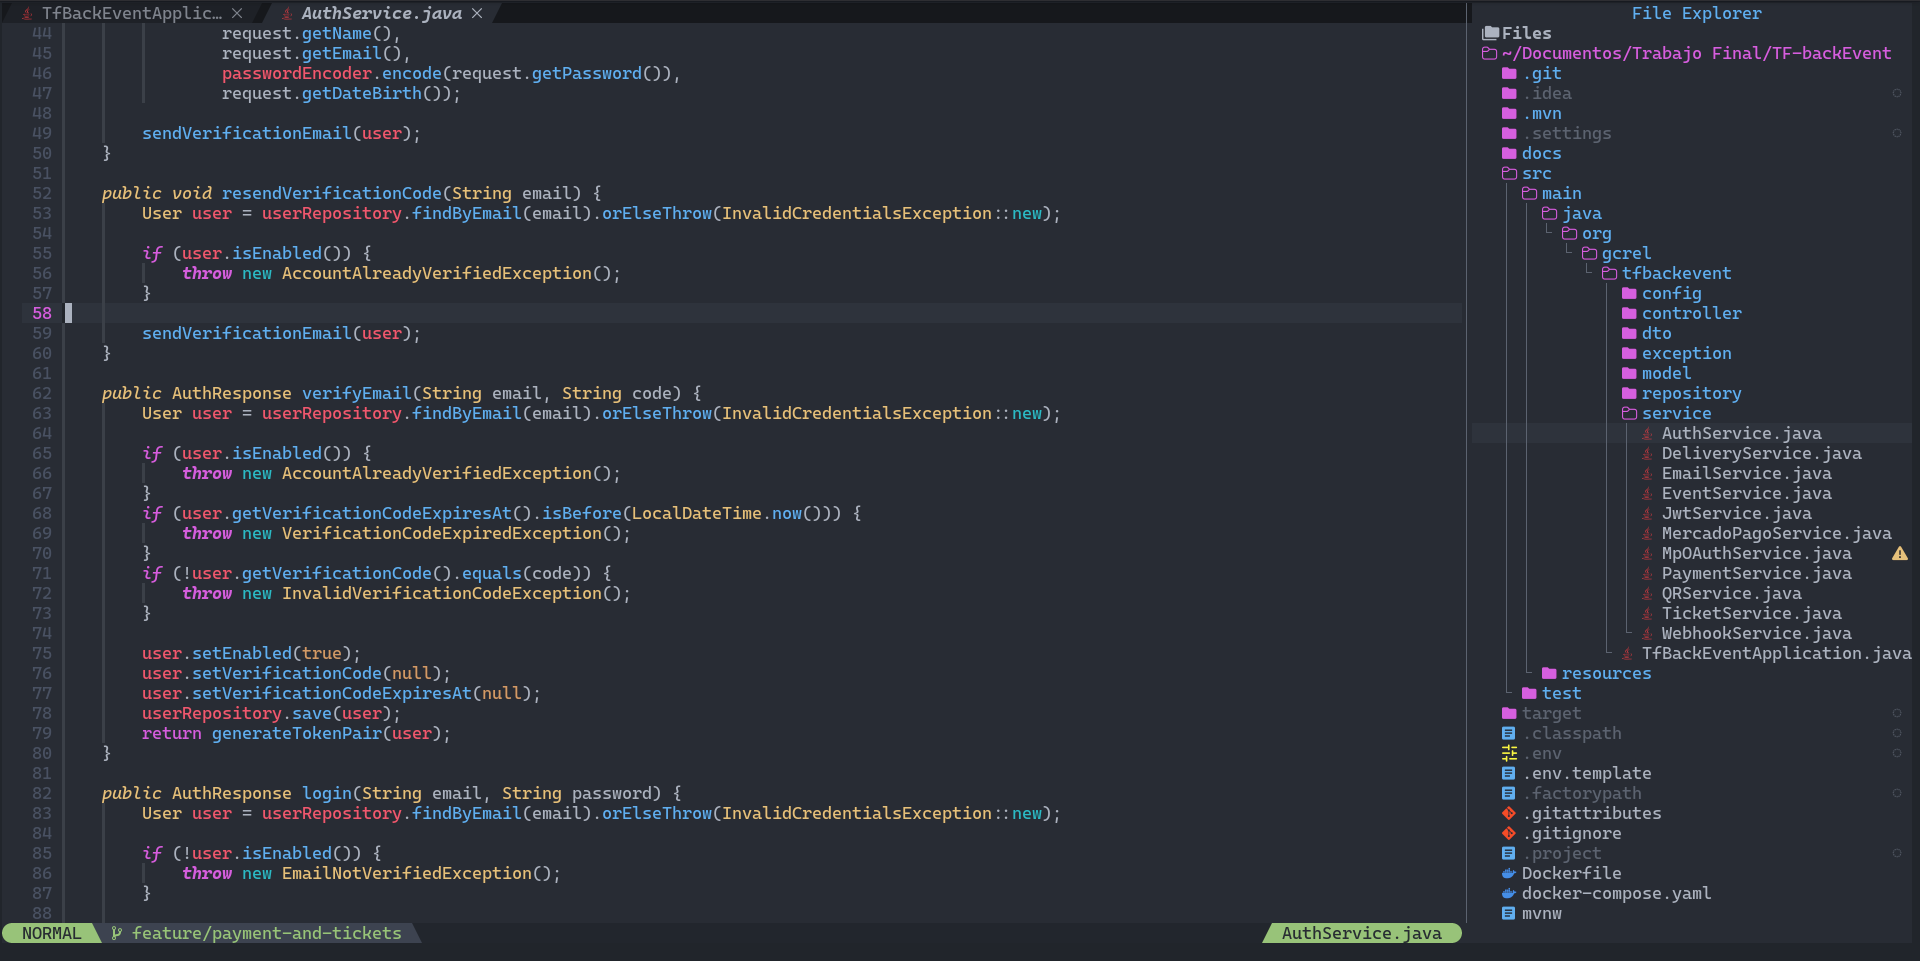
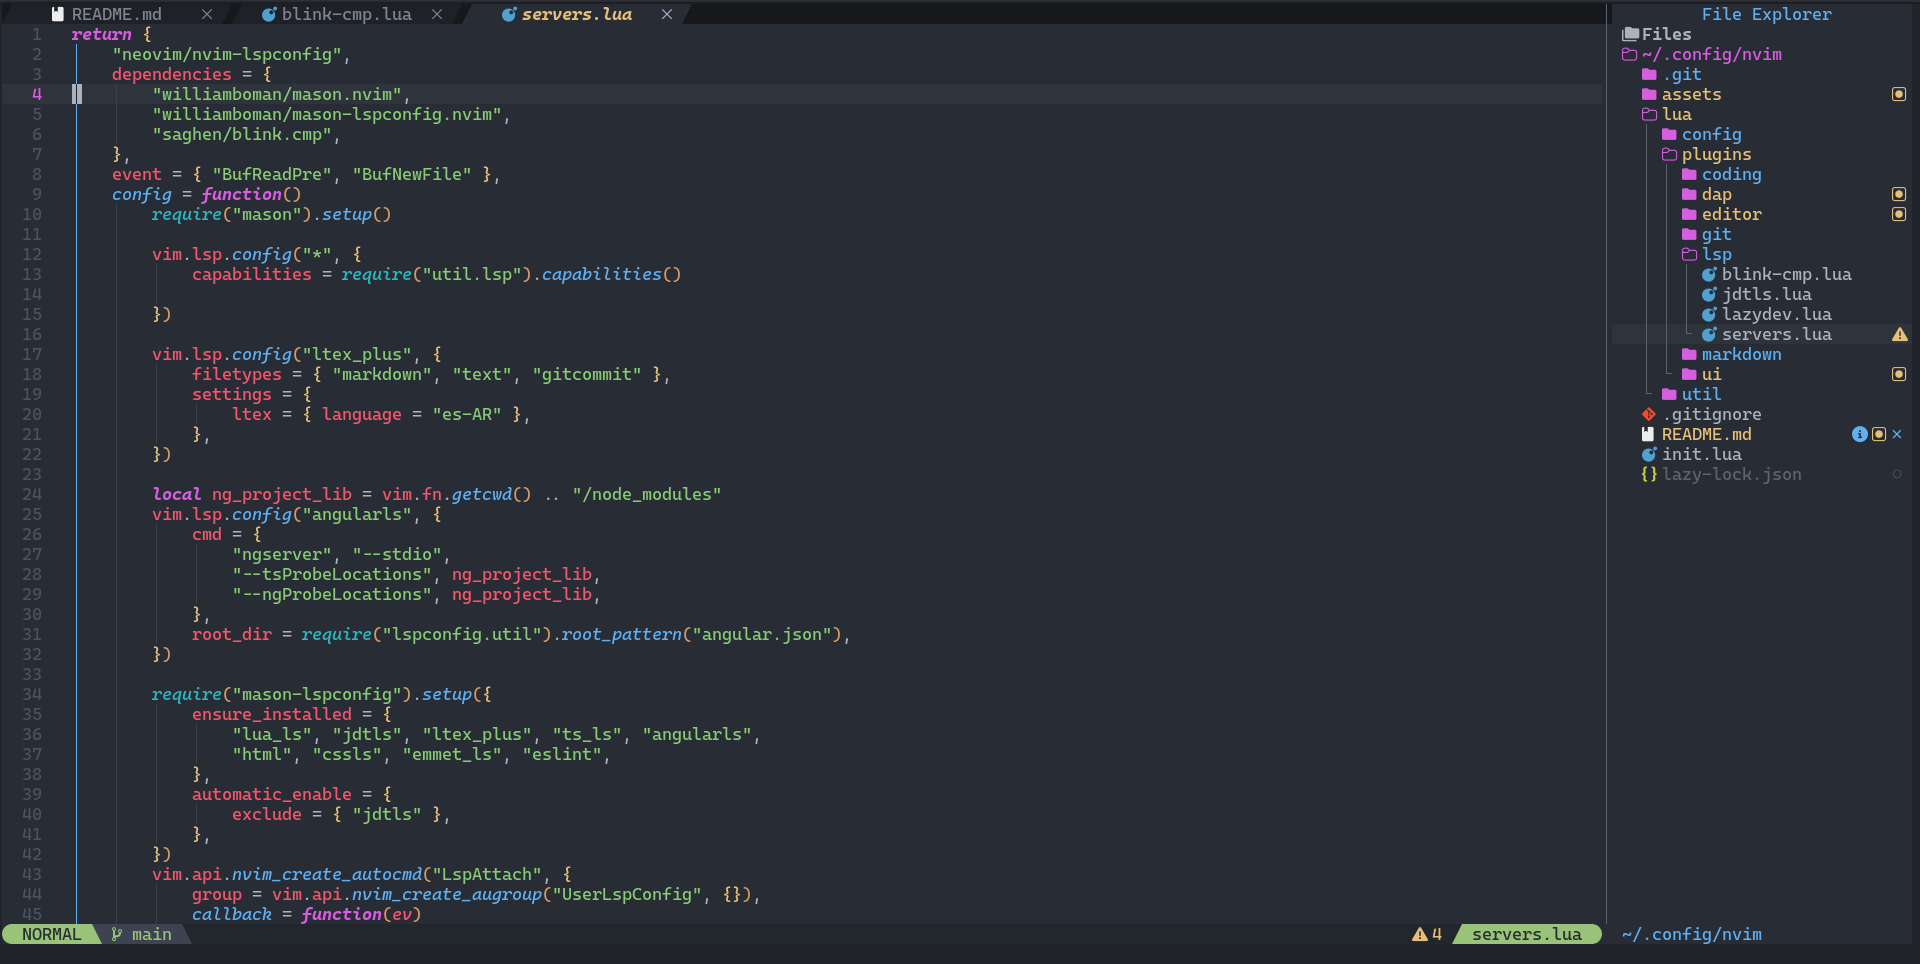
docs: actualiza la documentación y capturas

diff --git a/README.md b/README.md
@@ -7,8 +7,8 @@ Configuración personal de Neovim v0.11.5, construida desde cero e integrada con
 * **blink.cmp** (autocompletado)
 * **Treesitter** (resaltado sintáctico)
 * **OneDarkPro** (tema) con UI moderna
+* **snacks.nvim** (dashboard, picker, terminal, imágenes)
 * **noice.nvim** (mensajes y notificaciones mejorados)
-* **alpha-nvim** (dashboard de inicio)
 * **Copilot** (sugerencias con IA)
 * **nvim-dap** (debugging)
 * **Conform** (formateo automático)
@@ -33,27 +33,14 @@ Descargar desde [https://www.nerdfonts.com/](https://www.nerdfonts.com/)
 
 | Herramienta | Uso |
 |-------------|-----|
-| ripgrep | Búsquedas rápidas (Telescope) |
+| ripgrep | Búsquedas rápidas (Snacks picker / Telescope) |
 | fd | Búsqueda de archivos |
 | Node.js | Algunos LSPs |
 | Go | LSP gopls (opcional) |
 
-### Dependencias de image.nvim (renderizado de imágenes)
+### Renderizado de imágenes (snacks.nvim)
 
-Este plugin requiere dependencias a nivel de sistema para crear el entorno de `hererocks`, compilar la librería `magick` y renderizar los gráficos.
-
-**Fedora:**
-
-```bash
-sudo dnf install gcc make unzip curl python3 ImageMagick ImageMagick-devel lua luarocks
-```
-
-> `ImageMagick-devel` es crítico. Si falla la instalación del plugin en Neovim, elimina la caché de rocas (`rm -rf ~/.local/share/nvim/lazy-rocks`) y reinicia el editor.
-
-**Windows:** la instalación nativa falla por incompatibilidades con LuaJIT FFI y por la falta de soporte de protocolos gráficos en consolas nativas.
-
-* Entorno recomendado: **WSL2** (instalando las dependencias de Linux listadas arriba).
-* Terminal recomendada: **WezTerm** desde Windows, ya que soporta el protocolo gráfico necesario para renderizar las imágenes emitidas desde WSL2.
+El renderizado de imágenes (markdown, etc.) lo maneja `snacks.nvim`, que usa el protocolo gráfico de la terminal (kitty/sixel/iTerm) sin necesidad de dependencias de sistema adicionales.
 
 ---
 
@@ -102,8 +89,6 @@ nvim/
 │       │   └── dap.lua
 │       ├── editor
 │       │   ├── neo-tree.lua
-│       │   ├── telescope.lua
-│       │   ├── toggleterm.lua
 │       │   └── treesitter.lua
 │       ├── git
 │       │   ├── diffview.lua
@@ -114,14 +99,12 @@ nvim/
 │       │   ├── lazydev.lua
 │       │   └── servers.lua
 │       ├── markdown
-│       │   ├── image.lua
 │       │   └── markdown.lua
 │       └── ui
-│           ├── alpha.lua
 │           ├── bufferline.lua
-│           ├── indent-blankline.lua
 │           ├── lualine.lua
 │           ├── noice.lua
+│           ├── snacks.lua
 │           └── theme.lua
 └── README.md
 ```
@@ -131,7 +114,7 @@ nvim/
 | Plugin | Función |
 |--------|---------|
 | lazy.nvim | Gestor de plugins |
-| alpha-nvim | Dashboard de inicio |
+| snacks.nvim | Dashboard, picker, terminal, imágenes, indent, lazygit, scratch |
 | nvim-autopairs | Autocierre de pares |
 | bufferline.nvim | Línea de buffers |
 | onedarkpro.nvim (onedark_vivid) | Tema |
@@ -142,16 +125,12 @@ nvim/
 | nvim-dap + dap-ui | Debugging |
 | diffview.nvim | Vista de diffs de Git |
 | gitsigns.nvim | Marcadores de Git en la línea |
-| indent-blankline | Guías de indentación |
 | noice.nvim | UI de mensajes, notificaciones y LSP |
 | lazydev.nvim | Soporte de librerías para Lua |
 | nvim-jdtls | LSP de Java |
 | lualine.nvim | Barra de estado |
 | render-markdown.nvim | Renderizado de Markdown |
-| image.nvim | Renderizado de imágenes (markdown, neorg, etc.) |
 | neo-tree + nvim-lsp-file-operations | Explorador de archivos (rename/move vía LSP) |
-| telescope.nvim | Búsqueda fuzzy |
-| toggleterm.nvim | Terminal integrado |
 | nvim-treesitter | Resaltado e indentación |
 
 ---
@@ -221,11 +200,20 @@ El LSP de Java (jdtls) se configura automáticamente con:
 
 | Atajo | Acción |
 |-------|--------|
-| `<leader>f` | Buscar en archivos (live_grep) |
-| `<leader>p` | Buscar archivos (find_files) |
-| `<leader>o` | Archivos recientes (oldfiles) |
+| `<leader>f` | Buscar en archivos (grep) |
+| `<leader>p` | Buscar archivos |
+| `<leader>o` | Archivos recientes |
+| `<leader>b` | Buscar buffers |
 | `<C-n>` | Toggle Neo-tree |
 | `<leader>e` | Focus Neo-tree |
+
+### Git
+
+| Atajo | Acción |
+|-------|--------|
+| `<leader>gd` | Ver diffs de Git |
+| `<leader>gg` | Abrir Lazygit |
+| `<leader>gb` | Abrir en GitHub (Git Browse) |
 
 ### Comentarios
 
@@ -234,12 +222,18 @@ El LSP de Java (jdtls) se configura automáticamente con:
 | `<C-/>` | Comentar línea (normal) |
 | `<C-/>` | Comentar selección (visual) |
 
-### Terminal
+### Terminal (snacks.nvim)
 
 | Atajo | Acción |
 |-------|--------|
 | `<leader>th` | Terminal horizontal |
 | `<leader>tf` | Terminal flotante |
+
+### Scratch
+
+| Atajo | Acción |
+|-------|--------|
+| `<leader>.` | Toggle buffer scratch |
 
 ### LSP - Navegación
 
@@ -298,7 +292,7 @@ Fuentes: `lsp`, `path`, `snippets` (LuaSnip + friendly-snippets), `buffer`.
 | `<F10>` | Step over |
 | `<F11>` | Step into |
 | `<F12>` | Step out |
-| `<leader>b` | Toggle breakpoint |
+| `<leader>tb` | Toggle breakpoint |
 
 ### Java (jdtls)
 
